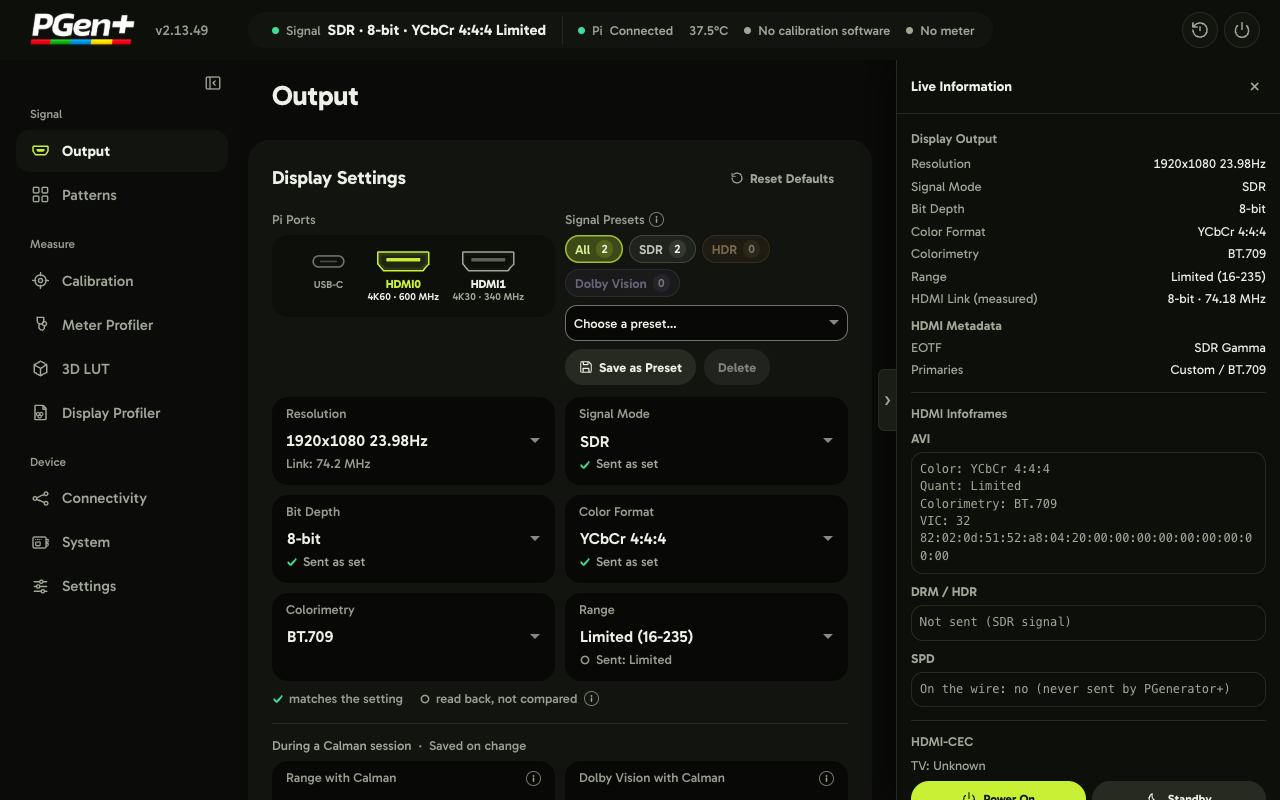
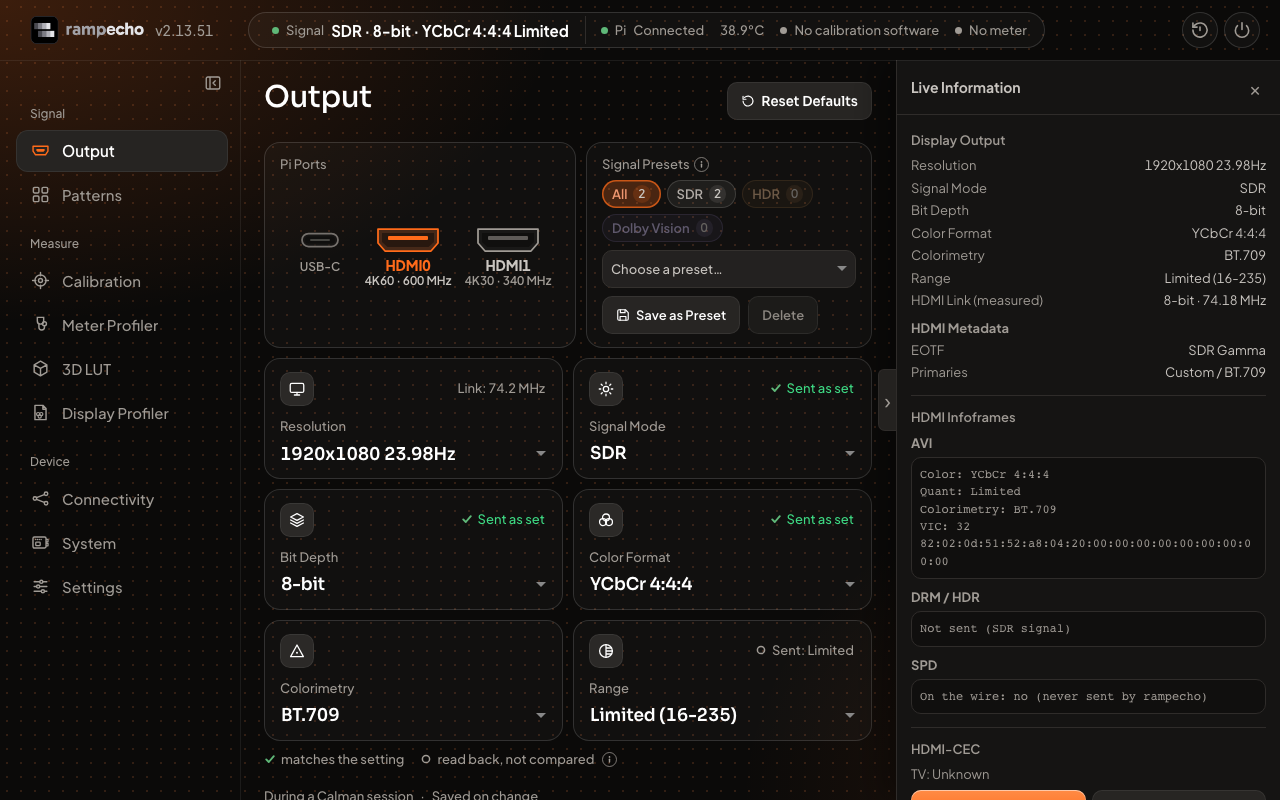
README for 3.0: the bridge from 2.13, the WebUI screenshots in Glow
The update sections say that 2.13 goes to 3.0 over the air, that a device
on 2.13.51 or older takes 2.13.52 first, and that the release dropdown of
3.0 lists the 2.13.x releases for the way back. The comparison table names
the fork's version as 3.0.

The seven WebUI screenshots are retaken from the Pi in the Glow theme with
the rampecho name (1280x800 and 1280x1080, phone 390 at 2x, GET requests
only, the output forced on with the LG's EDID and the test EDID alert
hidden; the self-test shown is the stored run of 2026-11-13). They were
taken before the release, so the version in them reads 2.13.51. The alt
text of the Live Information shot follows the tile layout.

diff --git a/README.md b/README.md
@@ -182,7 +182,7 @@ Signal Mode, Bit Depth, Color Format and Range each have a **Sent** line: what t
 
 ## ⚖ At a glance: fork vs. original
 
-| | Original ([BigShoots](https://github.com/BigShoots/PGenerator-Plus) 2.12.1) | **This fork (2.13.x)** |
+| | Original ([BigShoots](https://github.com/BigShoots/PGenerator-Plus) 2.12.1) | **This fork (3.0)** |
 |---|---|---|
 | 10-bit pattern codes | quantised through 8 bit on the way to the GPU | **sent at full 10-bit precision** |
 | RGB Limited output | kernel compression CSC after the framebuffer | **bit-exact** (patched vc4, verified by scanout readback) |
@@ -244,7 +244,7 @@ Signal Mode, Bit Depth, Color Format and Range each have a **Sent** line: what t
 <td colspan="2" valign="top"><img src="screenshots/webui-system.png" alt="System workspace: Device Info with CPU, memory and temperature meters and tiles for board, hostname, resolution, uptime, RAM and network, plus the GPU Memory and Scaling Type selects, and Software Update below"/><br/><p align="center"><sub>System: CPU, memory and temperature at a glance, the device facts, GPU memory and CPU Scaling Type set right in their tiles, and the OTA update</sub></p></td>
 </tr>
 <tr>
-<td colspan="2" valign="top"><img src="screenshots/webui-live-info.png" alt="Output workspace with the signal settings, the Range with Calman and Dolby Vision with Calman options, and the Live Information drawer open: the output as measured, decoded AVI, DRM and SPD infoframes, and HDMI-CEC"/><br/><p align="center"><sub>Output on Desktop with the two Calman options, and Live Information: the output as measured, the infoframes the Pi sends, decoded and updated as the signal changes, and HDMI-CEC with the TV remote</sub></p></td>
+<td colspan="2" valign="top"><img src="screenshots/webui-live-info.png" alt="Output workspace with the Pi ports, signal presets and the signal settings as tiles, each with what is sent, and the Live Information drawer open: the output as measured, decoded AVI, DRM and SPD infoframes, and HDMI-CEC"/><br/><p align="center"><sub>Output on Desktop: the signal settings as tiles, each with what the generator sends, and Live Information: the output as measured, the infoframes the Pi sends, decoded and updated as the signal changes, and HDMI-CEC with the TV remote</sub></p></td>
 </tr>
 <tr>
 <td colspan="2" valign="top"><img src="screenshots/webui-selftest.png" alt="Signal self-test in Output: all 12 modes bit-exact (SDR, HDR10, HLG, Dolby Vision), with link details and the drawn swatches per mode"/><br/><p align="center"><sub>Signal self-test, right below Display Settings: every mode read back from the scanout on a real Pi 4, bit-exact in 12 of 12</sub></p></td>
@@ -301,17 +301,17 @@ Signal Mode, Bit Depth, Color Format and Range each have a **Sent** line: what t
 
 ### 🔀 Coming from the original project?
 
-OTA updates stay within one `MAJOR.MINOR` family. 2.13 needs a new kernel module, so a Pi on upstream 2.12.x cannot update to the fork over the air. To switch:
+OTA updates stay within one `MAJOR.MINOR` family, with one bridge: 2.13 goes to 3.0. 2.13 needs a new kernel module, so a Pi on upstream 2.12.x cannot update to the fork over the air. To switch:
 
 1. Export your settings with **Export System Settings** in the Web UI.
 2. Flash the latest fork image (see above).
-3. Import the backup, then use **Check for Updates** to reach the newest 2.13.x.
+3. Import the backup, then use **Check for Updates** to reach the newest release. A Pi on 2.13.51 or older is offered 2.13.52 first; check again from there to get 3.0.
 
 From then on the Pi follows this fork's releases. The update source is `usr/share/PGenerator/update-channel`, and an `update_repo=owner/repo` line in `PGenerator.conf` overrides it.
 
 ### ⬆ Updating
 
-- **Web UI:** **System → Software Update → Check for Updates → Install Update.** The dialog shows the release notes and download progress, then restarts the service. The release dropdown also lets you reinstall the current release or roll back to an earlier one.
+- **Web UI:** **System → Software Update → Check for Updates → Install Update.** The dialog shows the release notes and download progress, then restarts the service. The release dropdown also lets you reinstall the current release or roll back to an earlier one; from 3.0 that includes the 2.13.x releases. Coming from 2.13.51 or older, install 2.13.52 first: only from there does the updater offer 3.0.
 - **SSH** (`root` / `PGenerator!!$`):
 
   ```bash
